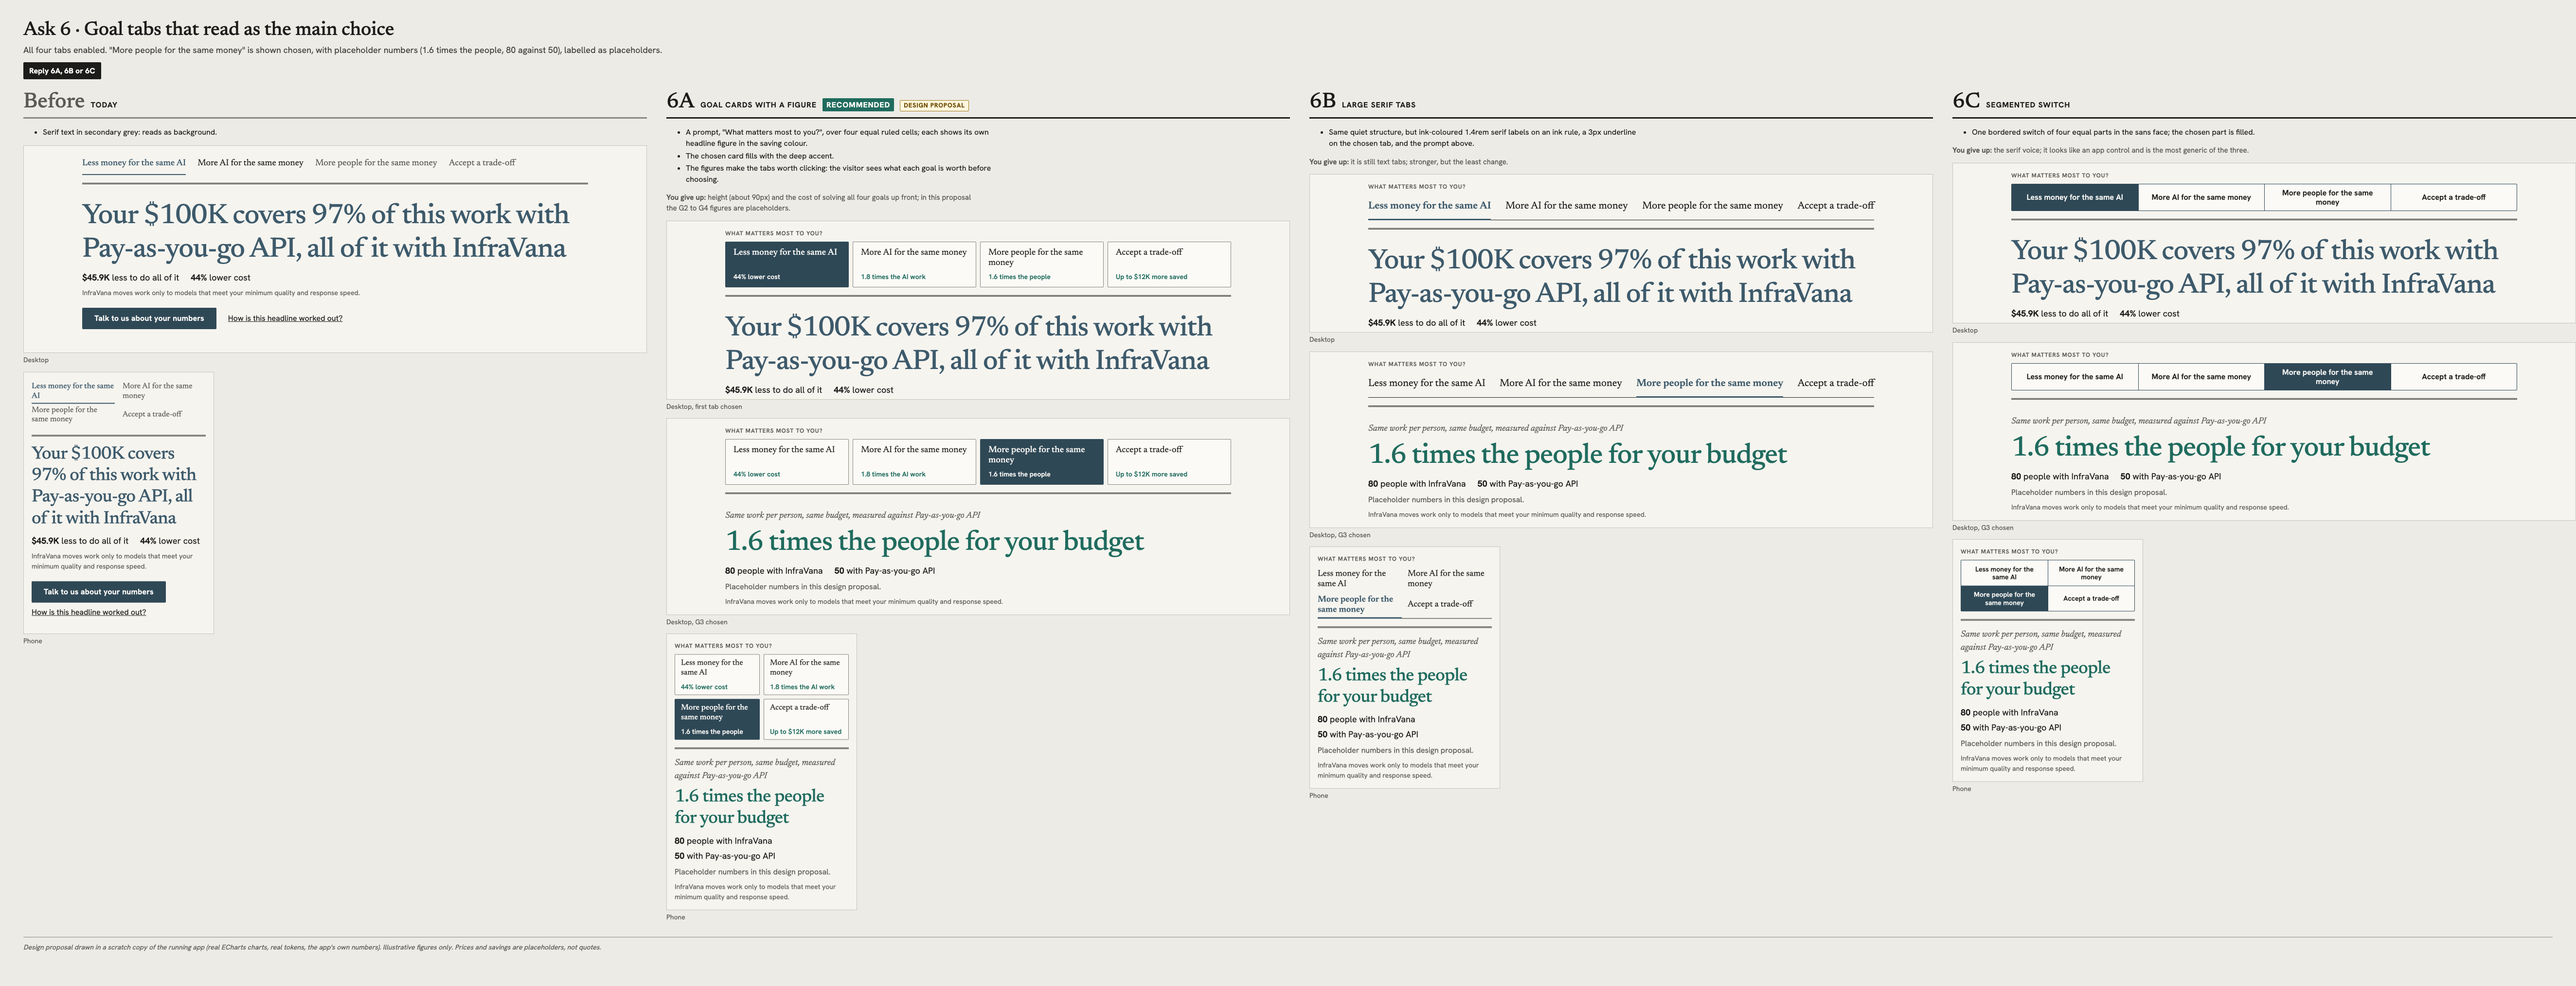
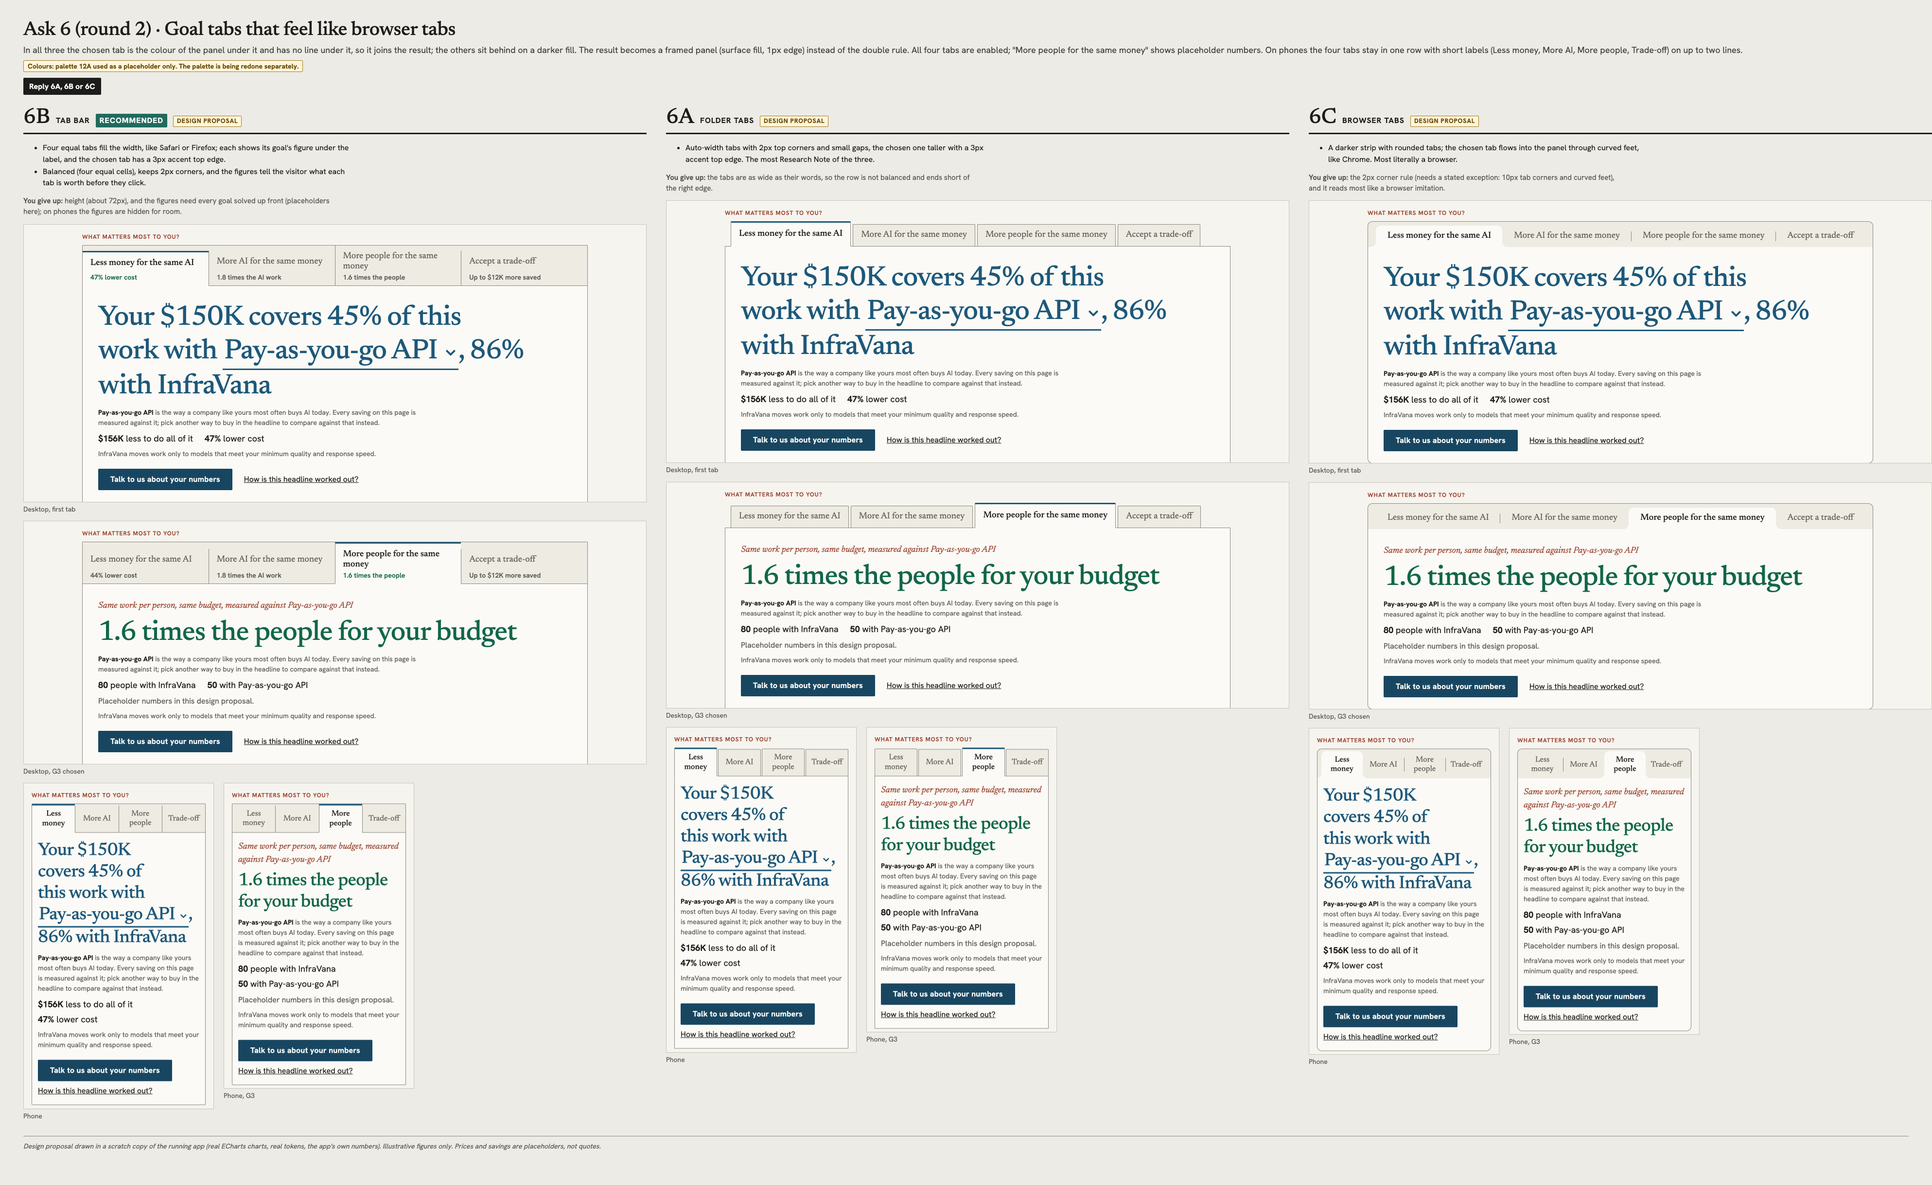
Design v0.4 round 2: boards for asks 2, 4, 5, 6, 8 and 9
- Step label, colour-coded presets, balanced 5B grid, 8C contents column
- Three browser-tab styles for the goal tabs (6B recommended)
- Balanced-grid rule with chart grid view at 4 to 10 items and every other grid
- Round-1 boards moved to archive/round-1; README lists the changes

diff --git a/mock/docs/design-v0.4/README.md b/mock/docs/design-v0.4/README.md
@@ -4,7 +4,64 @@
 
 All figures are invented placeholders, not quotes.
 
-## The twelve asks, in your order
+## Round 2 (your feedback of 2026-10-23): changed boards
+
+**These boards replace the round-1 boards for asks 2, 4, 5, 6 and 8, and add two boards for ask 9.** The round-1 versions are in [`archive/round-1/`](archive/round-1/). Every round-2 board uses palette 12A as a colour placeholder and says so, because the palette is being redone separately. Boards 11 and 12 and the `palette/` folder are not part of this round.
+
+| Ask | Board | What it shows | Reply |
+|---|---|---|---|
+| 2 | [`02-step-label.png`](02-step-label.png) | Step 1 reads "Step 1", with the rule already at 1/6. From step 2 it reads "Step n of N": 6 for a software company, 5 for an AI-first startup | one result |
+| 4 | [`04-customers.png`](04-customers.png) | 4B with colour-coded presets. Each button has a 5px top edge in its colour, and its tick on the slider matches. Drawn on the team, customers and budget steps, desktop and phone | one result |
+| 5 | [`05-sentence.png`](05-sentence.png) | 5B, balanced. 6 answers → 3 × 2. 5 answers → Company wide, then a row of 3. Phone: a one-column ruled list | one result |
+| 6 | [`06-goal-tabs.png`](06-goal-tabs.png) | Three browser-tab styles. **6B tab bar (recommended)**: four equal tabs with figures. 6A: folder tabs. 6C: Chrome-style tabs | 6A, 6B or 6C |
+| 8 | [`08-chart-tabs.png`](08-chart-tabs.png) | 8C contents column, refined, with ten charts. No numbers; a small glyph of each chart's form. Phone: one picker | one result |
+| 9 | [`09-grid-view.png`](09-grid-view.png) | The chart grid view for 4, 5, 6, 7, 9 and 10 charts, desktop and phone, with the balanced-grid rule written under it | one result |
+| 9 | [`09-other-grids.png`](09-other-grids.png) | The intake lists, answer grid, benefit boxes, fine-tune panel and goal tabs, all following the same rule | one result |
+
+**Colour logic for the ask 4 presets.**
+- **One hue, graded by size.** The presets are ordered sizes, so they use one violet ramp, light for small and dark for large: `#a575b4`, `#8a55af`, `#643e99`, `#412d7f`, with `#2e2160` kept for a fifth preset.
+- **No chart role uses violet.** The intake has no chart beside it, either.
+- **Contrast against the page:** 3.29, 4.78, 7.10 and 10.02.
+- **Greyscale:** neighbouring presets differ by 1.41 to 1.49:1.
+- **Not colour alone:** the value is always written on the button.
+
+**The balanced-grid rule** (proposed for every grid):
+1. **Every row is full.**
+2. **Columns come from the width:** up to container width ÷ the grid's minimum cell width.
+3. **Choose** the column count that gives the fewest rows.
+4. **When no column count divides the item count,** the first k items span two columns, with the smallest k that fills every row. A wide chart tile shows the chart's thumbnail beside its takeaway.
+5. **Results for the chart grid on desktop:**
+   - 4 → 4 × 1
+   - 5 → 3 columns, 1 wide
+   - 6 → 3 × 2
+   - 7 → 4 columns, 1 wide
+   - 9 → 3 × 3
+   - 10 → 4 columns, 2 wide
+6. **On phones,** grids have 2 columns. Odd counts get 1 wide tile.
+
+**What round 2 forces on the spec and the build:**
+- **Step label (spec 4.3):** "Step 1" on step 1 and "Step n of N" from step 2 replaces "no total anywhere".
+- **Tokens:** the preset colours are five new chrome tokens. The slider markup gives each tick and its button the same colour variable.
+- **Goal tabs (6.2):**
+  - The hero becomes a framed panel (surface fill, 1px edge) instead of the double rule (14.3).
+  - On phones, the four tabs stay in one row with short labels: "Less money", "More AI", "More people", "Trade-off". The old 2 × 2 phone layout goes.
+  - 6B needs every goal's figure up front, so all four goals must be solved before the tabs render.
+  - 6C needs a stated exception to the 2px corner rule (10px tab corners and curved feet).
+- **Contents column (4.1):** the column is 16rem wide on desktop and stays in view while the page scrolls. Grid view hides it. Every chart needs a glyph.
+- **Balanced grids:** a rule in 14.3. The grid view needs a "wide tile" variant with a takeaway line. The fine-tune panel with 5 knobs gets a wide knob.
+
+**Decisions for round 2:**
+- Choose 6A, 6B or 6C. I recommend 6B.
+- Approve the balanced-grid rule, in particular the wide-tile treatment for 5, 7 and 10 charts.
+- Approve the violet preset colours. They are provisional until the new palette lands, and the palette designer should confirm they do not clash with it.
+
+**Not drawn in round 2:**
+- 6B's figures for the other goals are placeholders.
+- A fine-tune panel with 5 knobs is described but not drawn.
+- The planned charts are placeholder tiles.
+- The hover and focus states of the tabs are not drawn.
+
+## The twelve asks, in your order (round 1)
 
 | Ask | Board | What we propose | Options | Recommended |
 |---|---|---|---|---|
